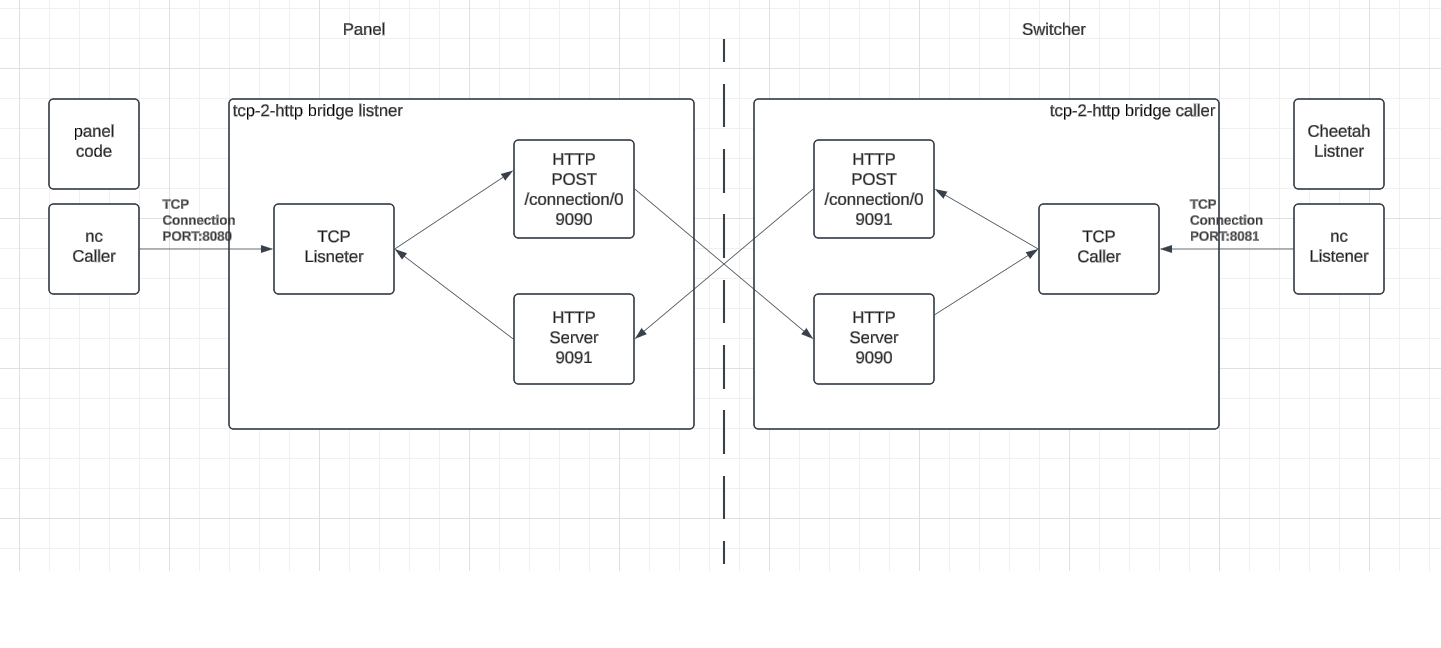
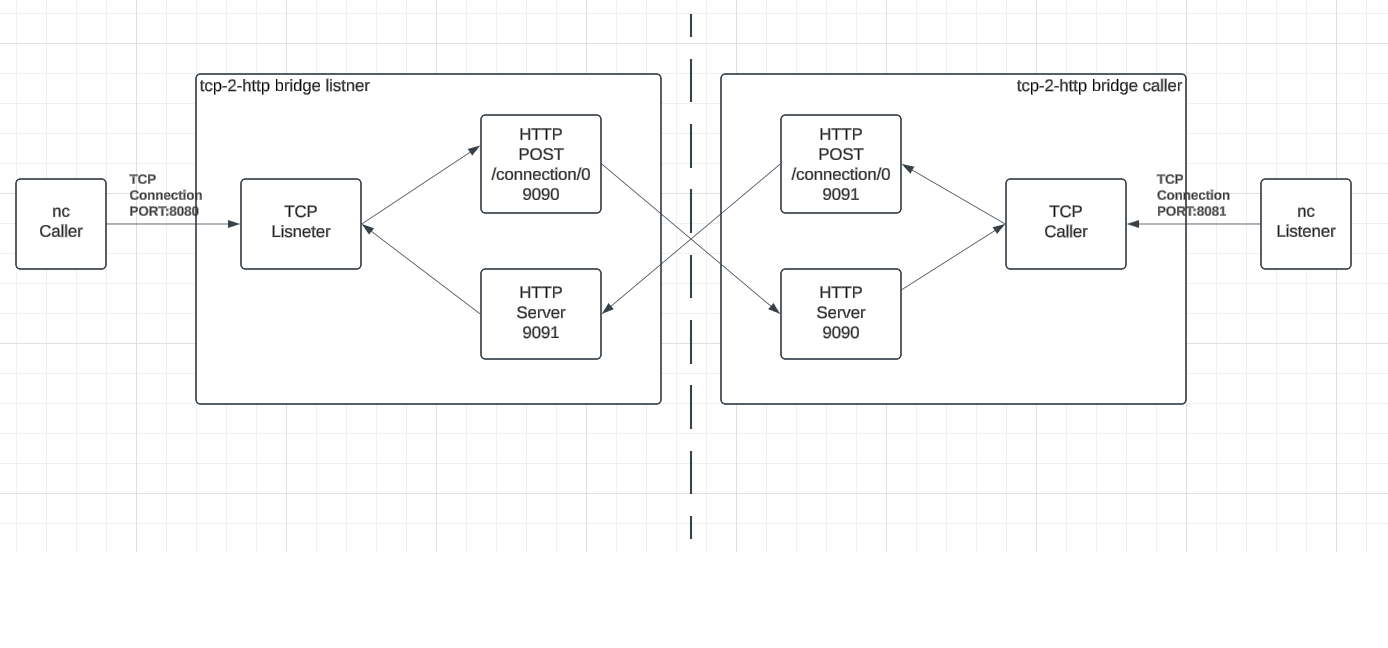
Updating docs

diff --git a/README.md b/README.md
@@ -12,31 +12,24 @@ Let's suppose that we have the following use case
 
 ![alt text](TCPB.png)
 
-A panel wants to connect to a switcher. The connection is over TCP and is initiated by the panel.
+A calling nc (netcat) client wants to connect to a listening nc client. The connection is over TCP and is initiated by the left side= of the diagram.
 
-Listener is running on the switcher.
-
-Caller is the panel.
-
-Start a Listener bridge on the panel side.
+Start a Listener bridge on the right side.
 
 ```bash
 ./tcp-bridge --tcpp=8080 --httppout=9090 --httppin=9091 --mode=listener
 ```
 
-Start a Caller bridge on the switcher side.
+Start a Caller bridge on the lefts side.
 
 ```bash
 ./tcp-bridge --tcpp=8081 --httppout=9091 --httppin=9090 --mode=caller
 ```
 
-When the Panel initiates a connection, it will open it with the listener bridge.
+When the calling nc client initiates a connection, it will open it with the listener bridge.
 
-On the first message sent, from the panel to the switcher, the listener bridge will send a POST to the caller bridge HTTP server.
+On the first message sent, from the left to right, the listener bridge will send a POST to the caller bridge HTTP server.
 
-The caller bridge will initiate a connection with the switcher and send the message.
+The caller bridge will initiate a connection with the listening nc client and send the message.
 
 Beyond that point, bidirectional traffic should flow from,
-
-Switcher to Panel
-Panel to Switcher.
